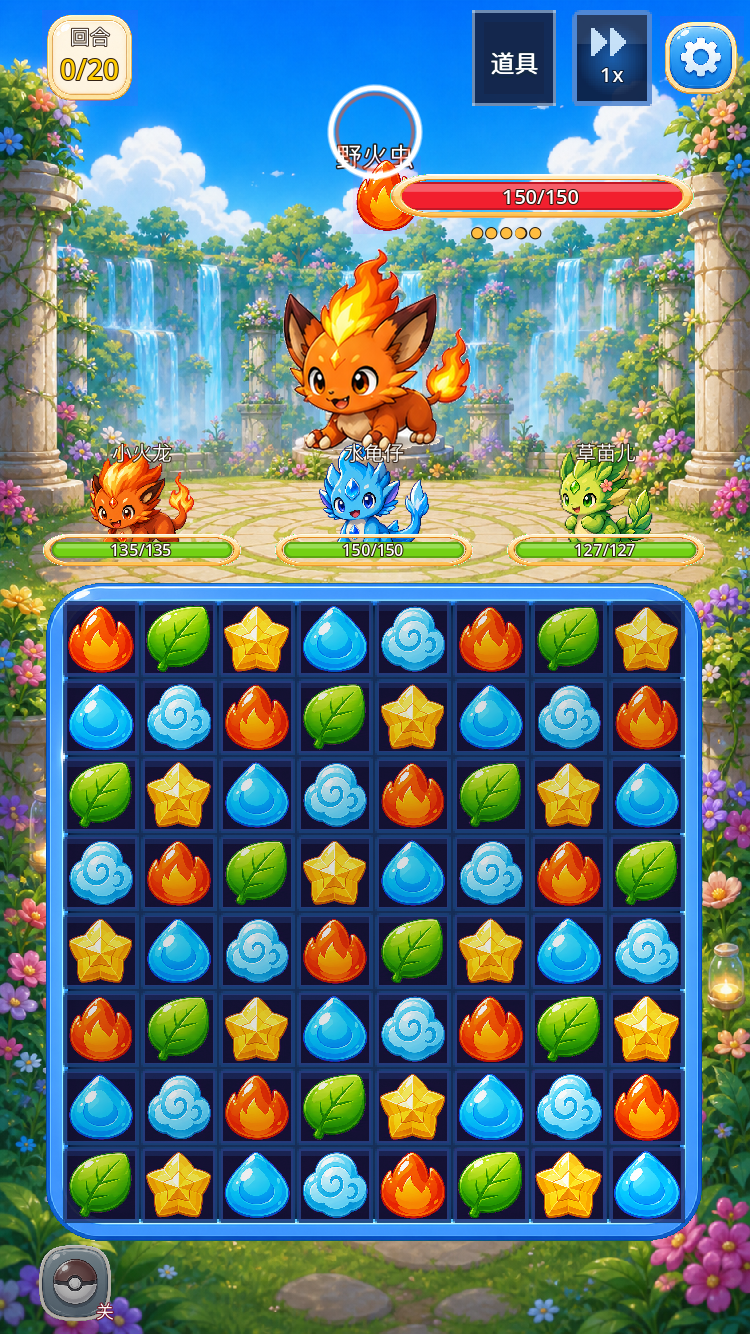
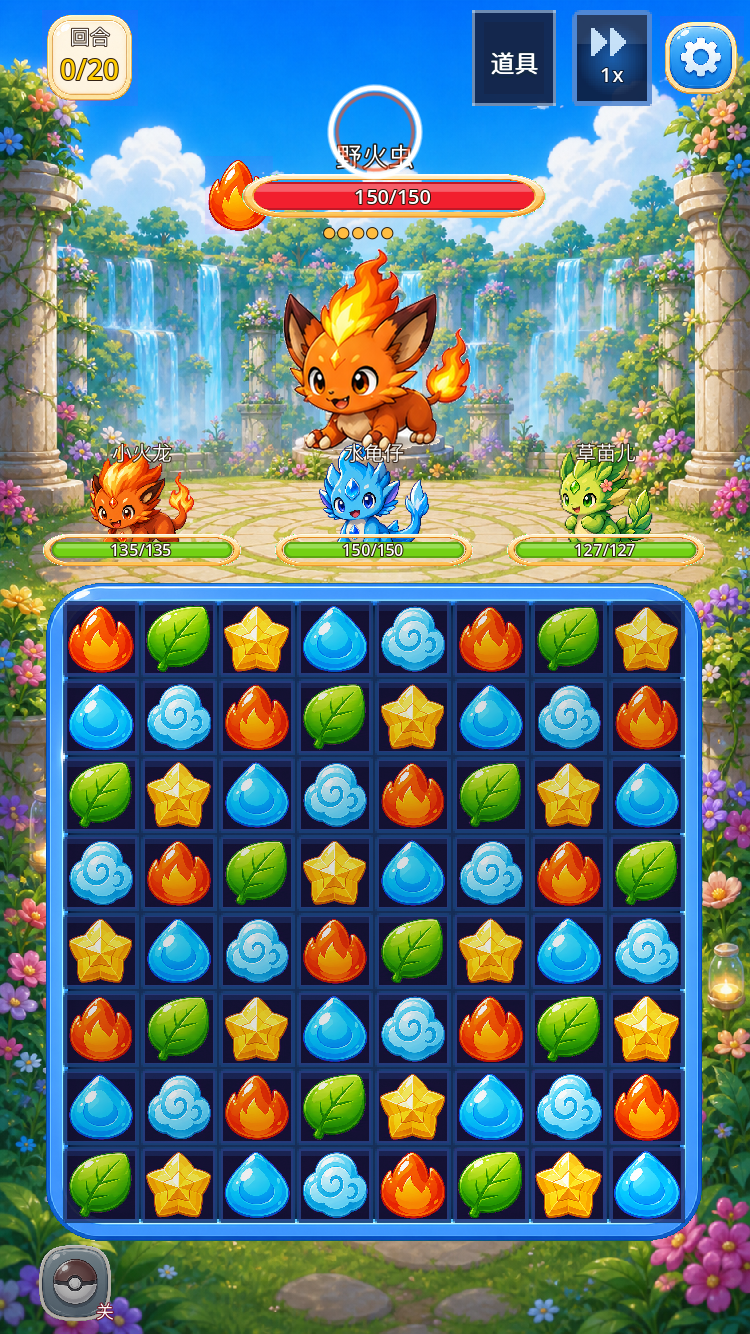
This is by an automated agent, not a human.
证据: T3 Before/After 刷新到 ddd7a01 同一血条 UI

- Before 改在 ddd7a01（PR base，含 #30 血条对齐）录制，After 为当前分支；两边只差 T3 两个实现文件。
- 重录 1/2/4 连锁 GIF、开/关 GIF、档位 Before/After 帧与对照图；关闭总开关录像与 ddd7a01 基线逐字节一致（1c0cbd30…）。
- 量测与代码不变。

Changed region(s): [[0.276, 0.1229, 0.5827, 0.1844], [0.6133, 0.1229, 0.92, 0.1844]]

diff --git a/docs/qa/chain_tier/README.md b/docs/qa/chain_tier/README.md
@@ -3,7 +3,9 @@
 对应「2 连锁环径 ×1.2 / 亮度 +10%，4 连锁加第二圈，轻量环径 ×0.8 且无第二圈，
 三档同屏弹体 / 环 / 粒子硬上限」的表现层改动。
 
-- 基线：`37b5277`（#29 元素飞行三段式）。
+- 行为与技术基线：`37b5277`（#29 元素飞行三段式）。
+- 视觉 Before 取自 `ddd7a01`（PR base；#30 只把单体血条整体左移 74px，不涉及
+  元素飞行 / 环 / 粒子），After 为本分支；两边的战斗 UI 状态一致。
 - 实现：只改 `src/ui/components/element_flight_effect.gd`（连锁 / 档位 / 预算参数与
   环绘制）和 `src/ui/scene/scene_battle.gd`（把 `cascade_count` 传成 `chain_level`、
   进入战斗重置预算、暴露预算计数）。
@@ -64,34 +66,35 @@
 
 同战局 `stage_1_1`、seed `20261109`、750×1334 视口、`--fixed-fps 60`，
 画质精细、战斗表现均衡。三张连锁 GIF 在命中环附近裁剪到 430×300，30fps。
-Before 帧来自 `37b5277` 代码（临时切回基线文件录制，随后恢复本分支代码）。
+Before 帧在 `ddd7a01` 的两个实现文件上录制（与 After 同一套 #30 血条 UI），
+随后恢复本分支代码；Before / After 只差 T3 的两个文件。
 
 | 文件 | 说明 | md5 |
 | --- | --- | --- |
-| [gifs/chain1.gif](gifs/chain1.gif) | 1 连锁：首圈 23.0px 半径 | `58a8a8c834d3c66f9d78877162623dbc` |
-| [gifs/chain2.gif](gifs/chain2.gif) | 2 连锁：首圈 ×1.2 = 27.6px，亮度 +11.1% | `5fb1b68b57ca3ed4552ad3bc3683a393` |
-| [gifs/chain4.gif](gifs/chain4.gif) | 4 连锁：27.6px + 第二圈 16.56px（+0.06s） | `dd813185fc46e55c805398b3975fbae9` |
-| [tier_compare.png](tier_compare.png) | Before / After 三行对照：2 连锁、4 连锁第二圈、轻量无第二圈 | `acedc4a00042b9f483d8f735edda5c16` |
-| [before_chain2.png](before_chain2.png) | 37b5277，chain=2（基线不识别连锁，环 46px 直径） | `0935d9b858a2896200ebbd89c2253fde` |
-| [after_chain2.png](after_chain2.png) | 本分支，chain=2（首圈 ×1.2） | `1e922311f156100adc19b685508775fa` |
-| [before_chain4.png](before_chain4.png) | 37b5277，chain=4（单圈） | `0935d9b858a2896200ebbd89c2253fde` |
-| [after_chain4.png](after_chain4.png) | 本分支，chain=4（首圈 + 第二圈） | `d6b2823cfbdd343f79ae010dcf853830` |
-| [after_chain4_lite.png](after_chain4_lite.png) | 本分支，轻量 4 连锁（×0.8，无第二圈） | `b4b1fb8e5109255fb61c0715750ffabd` |
-| [before_on.gif](before_on.gif) | 37b5277，总开关开启，同一交换 | `fc056ddd411289bf73e9241dcbc67a1a` |
-| [after_on.gif](after_on.gif) | 本分支，总开关开启，同一交换 | `da08096ac32ba5bc59d7b1790964ac69` |
-| [off.gif](off.gif) | 本分支，总开关关闭 | `231da7d2d6806142237ab5ea0faed716` |
+| [gifs/chain1.gif](gifs/chain1.gif) | 1 连锁：首圈 23.0px 半径 | `b08aaae0c8969fef37b90c81f9f15fff` |
+| [gifs/chain2.gif](gifs/chain2.gif) | 2 连锁：首圈 ×1.2 = 27.6px，亮度 +11.1% | `07f7df722972fdcd239f0489cedcfc36` |
+| [gifs/chain4.gif](gifs/chain4.gif) | 4 连锁：27.6px + 第二圈 16.56px（+0.06s） | `70172873c954e61028183afee5e58626` |
+| [tier_compare.png](tier_compare.png) | Before / After 三行对照：2 连锁、4 连锁第二圈、轻量无第二圈 | `7a067a71380d221ad3e81836a4d4c21d` |
+| [before_chain2.png](before_chain2.png) | ddd7a01，chain=2（基线不识别连锁，环 46px 直径） | `da6c6bab25a3484dbebf47284282ff7a` |
+| [after_chain2.png](after_chain2.png) | 本分支，chain=2（首圈 ×1.2） | `c2fa831992f78b0f9eb567af6cfaceab` |
+| [before_chain4.png](before_chain4.png) | ddd7a01，chain=4（单圈） | `da6c6bab25a3484dbebf47284282ff7a` |
+| [after_chain4.png](after_chain4.png) | 本分支，chain=4（首圈 + 第二圈） | `0a403157f00568e28f7073a6616147fc` |
+| [after_chain4_lite.png](after_chain4_lite.png) | 本分支，轻量 4 连锁（×0.8，无第二圈） | `1bbf47a3cc75a77c9322134df9fa59f1` |
+| [before_on.gif](before_on.gif) | ddd7a01，总开关开启，同一交换 | `50e7163582ff3dcd98246680fe02fb29` |
+| [after_on.gif](after_on.gif) | 本分支，总开关开启，同一交换 | `04d81ca82a1f8b5e13a38deb681d0a66` |
+| [off.gif](off.gif) | 本分支，总开关关闭 | `cf782b205496704489e8400175ae26f0` |
 
 对照结论：
 
-- `before_chain2/4.png` 与 `before_chain1` 的 md5 完全相同（`0935d9b8…`），
-  说明 37b5277 不识别连锁；`after_chain1.png` 也与该 md5 相同，说明 1 连锁画面
-  完全保持基线。
+- `before_chain2/4.png` 的 md5 完全相同（`da6c6bab…`），说明基线不识别连锁；
+  `after_chain1.png` 也与该 md5 相同，说明 1 连锁画面完全保持基线。
 - `after_chain4.png` 与 `after_chain4_rich.png` 相同（华丽首圈倍率 1.0），
   `after_chain4_lite.png` 与 `after_chain2_lite.png` 相同（轻量无第二圈，且
   2/4 连锁首圈同径），与参数口径一致。
-- 总开关关闭的录像 `off.avi` md5 为 `f1db482639ea76564e326510a1933c38`，与
-  `docs/qa/element_flight/README.md` 记录的 37b5277 基线 AVI md5 完全一致；
-  关闭状态下不创建任何表现节点，也没有任何额外等待。
+- 总开关关闭的录像与 `ddd7a01` 基线录像逐字节一致（md5 均为
+  `1c0cbd3094dbbcb833e885582a65058c`）；关闭状态下不创建任何表现节点，
+  也没有任何额外等待。相对 37b5277 的旧基线 AVI md5 `f1db4826…` 仅因 #30
+  血条位置变化而不同，元素飞行路径本身未变。
 
 ## 回归与硬约束
 
@@ -135,8 +138,8 @@ crop=430:300:160:0,fps=30,split[a][b];\
 [b][p]paletteuse=dither=none" -loop 0 chain${chain}.gif
 done
 
-# Before 帧：在 37b5277 工作树（或临时切回基线两个文件）用同一 capture 脚本
-$GODOT --path /path/to/37b5277 --fixed-fps 60 \
+# Before 帧：在 ddd7a01 工作树（或临时切回 ddd7a01 的两个实现文件）用同一脚本
+$GODOT --path /path/to/ddd7a01 --fixed-fps 60 \
   --script res://tests/element_flight_chain_capture.gd -- \
   --chain=2 --performance-mode=balanced --phase=ring --output=before_chain2.png
 ```
